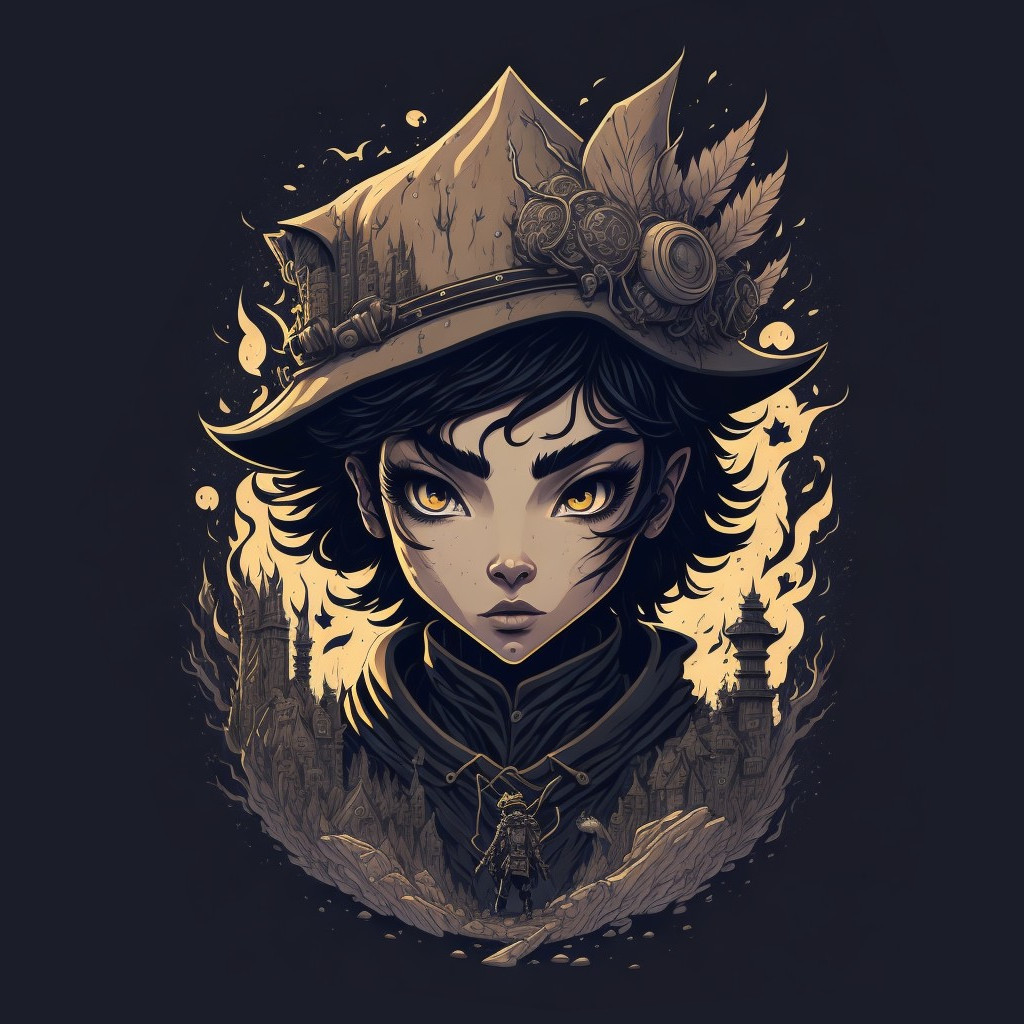
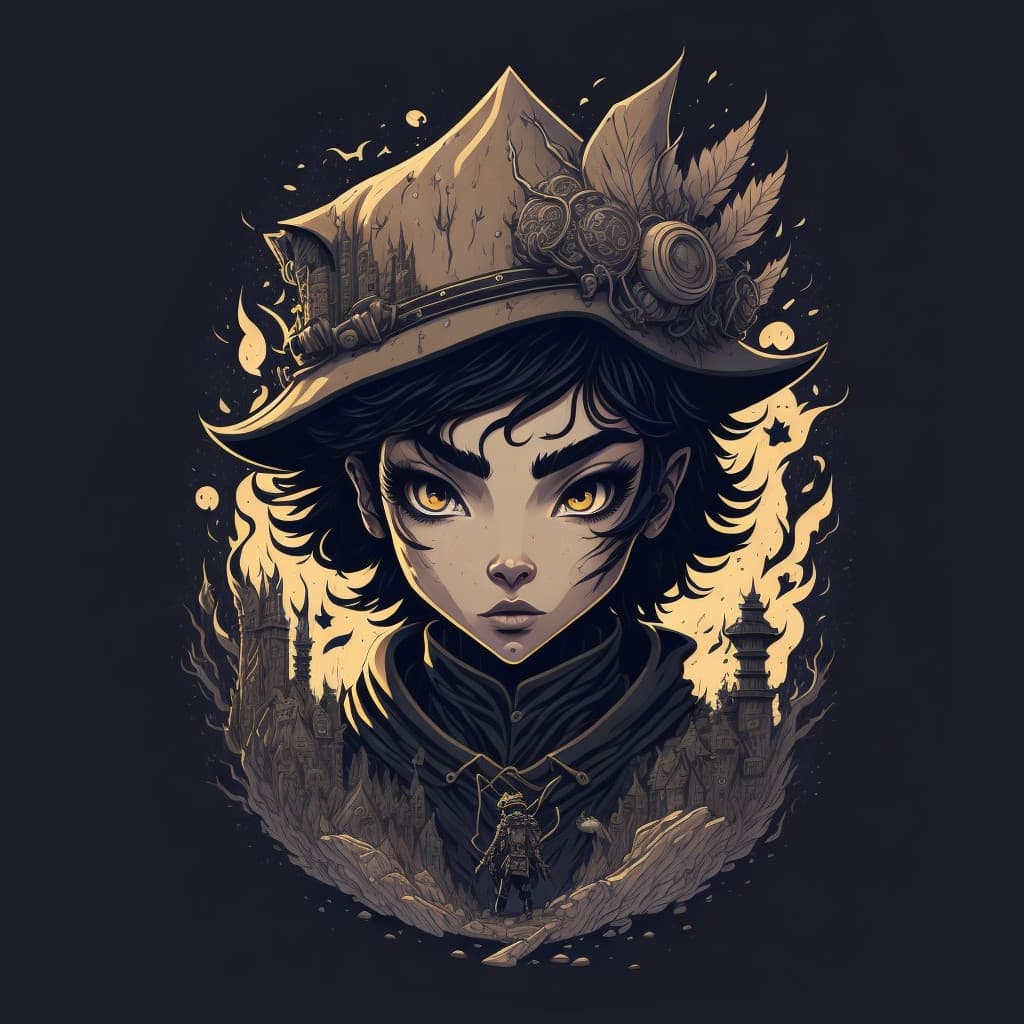
reduce assets size + fix item preview

diff --git a/src/app/services/games.services.ts b/src/app/services/games.services.ts
@@ -21,7 +21,7 @@ export class GamesService {
     teams:Teams;
     functions:Functions;
     currentGame:Game | null;
-    DEFAULT_GAME_PREVIEW = "assets/illustrations/default_icon.png";
+    DEFAULT_GAME_PREVIEW = "assets/illustrations/default_icon.jpg";
 
     constructor(private auth:AuthentificationService,private toast:ToastService,private playersService:PlayersService,private items:ItemsService) {
 
@@ -270,28 +270,37 @@ export class GamesService {
 
     async UploadGameIllustration(image:File): Promise<Response> {
         if(this.currentGame == null ) return {value:"You are not connected to a game",type:ResponseType.Error};
-        let teamID = this.currentGame.teamID;
+        if(image == null) return {value:"No image selected",type:ResponseType.Error};
+        if(BytesToMegaBytes(image.size) > environment.MAX_FILE_SIZE) return {value:"The image is too big (max is "+environment.MAX_FILE_SIZE+"Mbytes)",type:ResponseType.Error};
         
-        //select old file (the one that as team id in permission)
-        let images = await this.storage.listFiles(environment.GAMEILLUSTRATION_STORAGE_ID);
-        console.log("images",images)
-        let oldImage = images.files.find((file) => hasPermission(file.$permissions,Role.team(teamID)));
-        //delete if exists
-        if(oldImage) this.storage.deleteFile(environment.GAMEILLUSTRATION_STORAGE_ID, oldImage.$id);
+        let res:Response;
+        let teamID = this.currentGame.teamID;
+        try{
+            //select old file (the one that as team id in permission)
+            let images = await this.storage.listFiles(environment.GAMEILLUSTRATION_STORAGE_ID);
+            console.log("images",images)
+            let oldImage = images.files.find((file) => hasPermission(file.$permissions,Role.team(teamID)));
+            //delete if exists
+            if(oldImage) await this.storage.deleteFile(environment.GAMEILLUSTRATION_STORAGE_ID, oldImage.$id);
+            
+            let userid = this.auth.GetUserID();
+            //upload the new image
+            await this.storage.createFile(environment.GAMEILLUSTRATION_STORAGE_ID, ID.unique(), image,
+            [
+                Permission.read(Role.team(teamID)),
+                
+                Permission.read(Role.user(userid)),
+                Permission.write(Role.user(userid)),
+                Permission.delete(Role.user(userid)),
+                Permission.update(Role.user(userid))
+            ]);
+            res = {value:"The image has been uploaded",type:ResponseType.Success};
+        }
+        catch(error){
+            res= {value:getErrorMessage(error),type:ResponseType.Error};
+        }
 
-        let userid = this.auth.GetUserID();
-        //upload the new image
-        this.storage.createFile(environment.GAMEILLUSTRATION_STORAGE_ID, ID.unique(), image,
-        [
-            Permission.read(Role.team(teamID)),
-
-            Permission.read(Role.user(userid)),
-            Permission.write(Role.user(userid)),
-            Permission.delete(Role.user(userid)),
-            Permission.update(Role.user(userid))
-        ]);
-
-        return {value:"The image has been uploaded",type:ResponseType.Success}
+        return res
 
     }
 

diff --git a/src/app/views/tools/tools.component.html b/src/app/views/tools/tools.component.html
@@ -1,21 +1,31 @@
 <section class="flex-col">
-<div class="categorie flex-col">
-    <h2>Maps</h2>
-    <div class="flex-row cards">
-        <div (click)="onOpenNewTab('https://watabou.github.io/')" class="card flex-col">
-            <img src="assets/illustrations/watabou.png" alt="watabou">
-            <div class="link flex-row">
-                <img class="" src="assets/icons/link-external-fill.svg" alt="">
+    <div class="categorie flex-col">
+        <h2>Maps</h2>
+        <div class="flex-row cards">
+            <div (click)="onOpenNewTab('https://watabou.github.io/')" class="card flex-col">
+                <img src="assets/illustrations/watabou.jpg" alt="watabou">
+                <div class="link flex-row">
+                    <img class="" src="assets/icons/link-external-fill.svg" alt="">
+                </div>
+                <p>Watabou's Procgen Arcana</p>
             </div>
-            <p>Watabou's Procgen Arcana</p>
+            <div (click)="onOpenNewTab('https://azgaar.github.io/Fantasy-Map-Generator/')" class="card flex-col">
+                <img src="assets/illustrations/azgaar.jpg" alt="azgaar">
+                <div class="link flex-row">
+                    <img class="" src="assets/icons/link-external-fill.svg" alt="">
+                </div>
+                <p>Azgaar's Fantasy Map Generator</p>
+            </div>
         </div>
-        <div (click)="onOpenNewTab('https://azgaar.github.io/Fantasy-Map-Generator/')" class="card flex-col">
-            <img src="assets/illustrations/azgaar.jpeg" alt="azgaar">
-            <div class="link flex-row">
-                <img class="" src="assets/icons/link-external-fill.svg" alt="">
+        <h2>Utilities</h2>
+        <div class="flex-row cards">
+            <div (click)="onOpenNewTab('https://squoosh.app')" class="card flex-col">
+                <img src="assets/illustrations/squoosh.jpg" alt="watabou">
+                <div class="link flex-row">
+                    <img class="" src="assets/icons/link-external-fill.svg" alt="">
+                </div>
+                <p>Squoosh (reduce image size)</p>
             </div>
-            <p>Azgaar's Fantasy Map Generator</p>
         </div>
     </div>
-</div>
 </section>

diff --git a/src/app/components/item-preview/item-preview.component.html b/src/app/components/item-preview/item-preview.component.html
@@ -1,10 +1,10 @@
 <section class="flex-col">
     <div class="flex-row  basic-infos">
         <img [src]="GetImageUrl()" alt="icon image" class="item-preview">
-        <div class="flex-col" >
-            <h3>{{item.name}}</h3>
+        <div class="flex-col items-infos" >
+            <h3 class="item-name">{{item.name}}<span class="item-type"> [{{item.type}}]</span></h3>
+            
             <app-rarity-icon class="rarity" [rarity]="item.rarity"></app-rarity-icon>
-            <p>{{item.type}}</p>
             <div class="flex-row money" [innerHTML]="PlayerMoney()"> </div>
         </div>
     </div>

diff --git a/src/app/views/new-game/new-game.component.ts b/src/app/views/new-game/new-game.component.ts
@@ -23,7 +23,7 @@ export class NewGameComponent {
     id: '',
     name: '',
     description: '',
-    image: 'assets/illustrations/default_icon.png',
+    image: 'assets/illustrations/default_icon.jpg',
     host: '',
     teamID:'',
     attributes: [
@@ -39,7 +39,7 @@ export class NewGameComponent {
     baseStatPoints: 0,
     baseMoney: 0
   };
-  imageFile:File = new File([], 'default_icon.png');
+  imageFile:File = new File([], 'default_icon.jpg');
 
   constructor(private games:GamesService, private sanitizer:DomSanitizer,private router:Router, private toast:ToastService) { }
 

diff --git a/src/app/components/item-preview/item-preview.component.scss b/src/app/components/item-preview/item-preview.component.scss
@@ -8,18 +8,29 @@ section{
     justify-content: flex-start;
     align-items: flex-start;
     background-color: $background;
+    gap:.5rem;
 }
 
 .item-preview{
-    width: 30%;
+    width: 35%;
     aspect-ratio: 1/1;
+}
+.item-type{
+    font-size: .7rem;
+    font-weight: bold;
+    width: 100%;
 }
 
 .basic-infos{
     justify-content: flex-start;
+    align-items: flex-start;
     div{
         align-items: flex-start;
         gap:.5rem;
+    }
+    .items-infos{
+        width: 65%;
+        justify-content: stretch;
     }
     h3{
         font-weight: normal;

diff --git a/src/app/views/items/items.component.scss b/src/app/views/items/items.component.scss
@@ -70,6 +70,13 @@ section{
     align-items: flex-start;
     width: calc(100% - 2rem);
     min-height: calc(100vh - 200px);
+
+    @include width-under(750px){
+        flex-direction: column-reverse;
+        align-items: center;
+        min-height: auto;
+    }
+
     .item-list{
         flex-wrap: wrap;
         justify-content: flex-start;
@@ -84,7 +91,7 @@ section{
     }
     
     app-item-preview{
-        width: 20%;
-        max-width: 300px;
+        width: 100%;
+        max-width: 400px;
     }
 }
